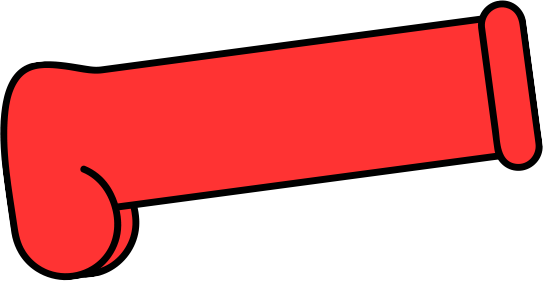
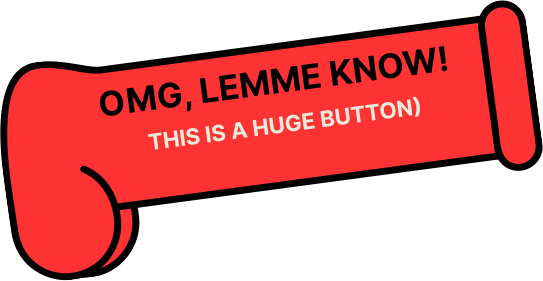
subscription form

Changed region(s): [[0.1768, 0.1423, 0.825, 0.427], [0.2652, 0.3416, 0.7956, 0.5409]]

diff --git a/style.css b/style.css
@@ -210,7 +210,7 @@ img {
 .reg-below {
     color: #000000;
     font-weight: 800;
-    font-size: 3vw !important;
+    font-size: 3rem !important;
     line-height: normal !important;
     margin-top: -3rem;
 }
@@ -312,6 +312,34 @@ img {
 }
 
 /* End Hero Section Styling */
+
+.email-form {
+    position: relative;
+}
+
+.email-form input {
+    border: 6px black solid;
+    border-radius: 20px;
+    border-top-width: thin;
+    border-left-width: thin;
+    height: 4rem;
+    padding: 10px;
+    color: black;
+    position: absolute;
+    left: 0;
+    top: 0;
+    right: 0;
+    bottom: 0;
+}
+
+.email-form button {
+    border: 0px;
+    width: 16rem;
+    background: transparent;
+    position: absolute;
+    top: 0rem;
+    right: -6rem;
+}
 
 #plan .container {
     position: relative;

diff --git a/index.html b/index.html
@@ -127,6 +127,13 @@
                         REGISTER YOUR <br> eMAIL BELOW
                     </p>
 
+                    <form class="email-form text-center mb-5">
+                        <input/>
+                        <button >
+                            <img src="images/button.png">
+                        </button>
+                    </form>
+
                     <div class="mt-5 text-center twitter-cta">
                         <p class="pt-3">
                             GET <span class="fart-pts">10 MORE POINTS,</span><br>
